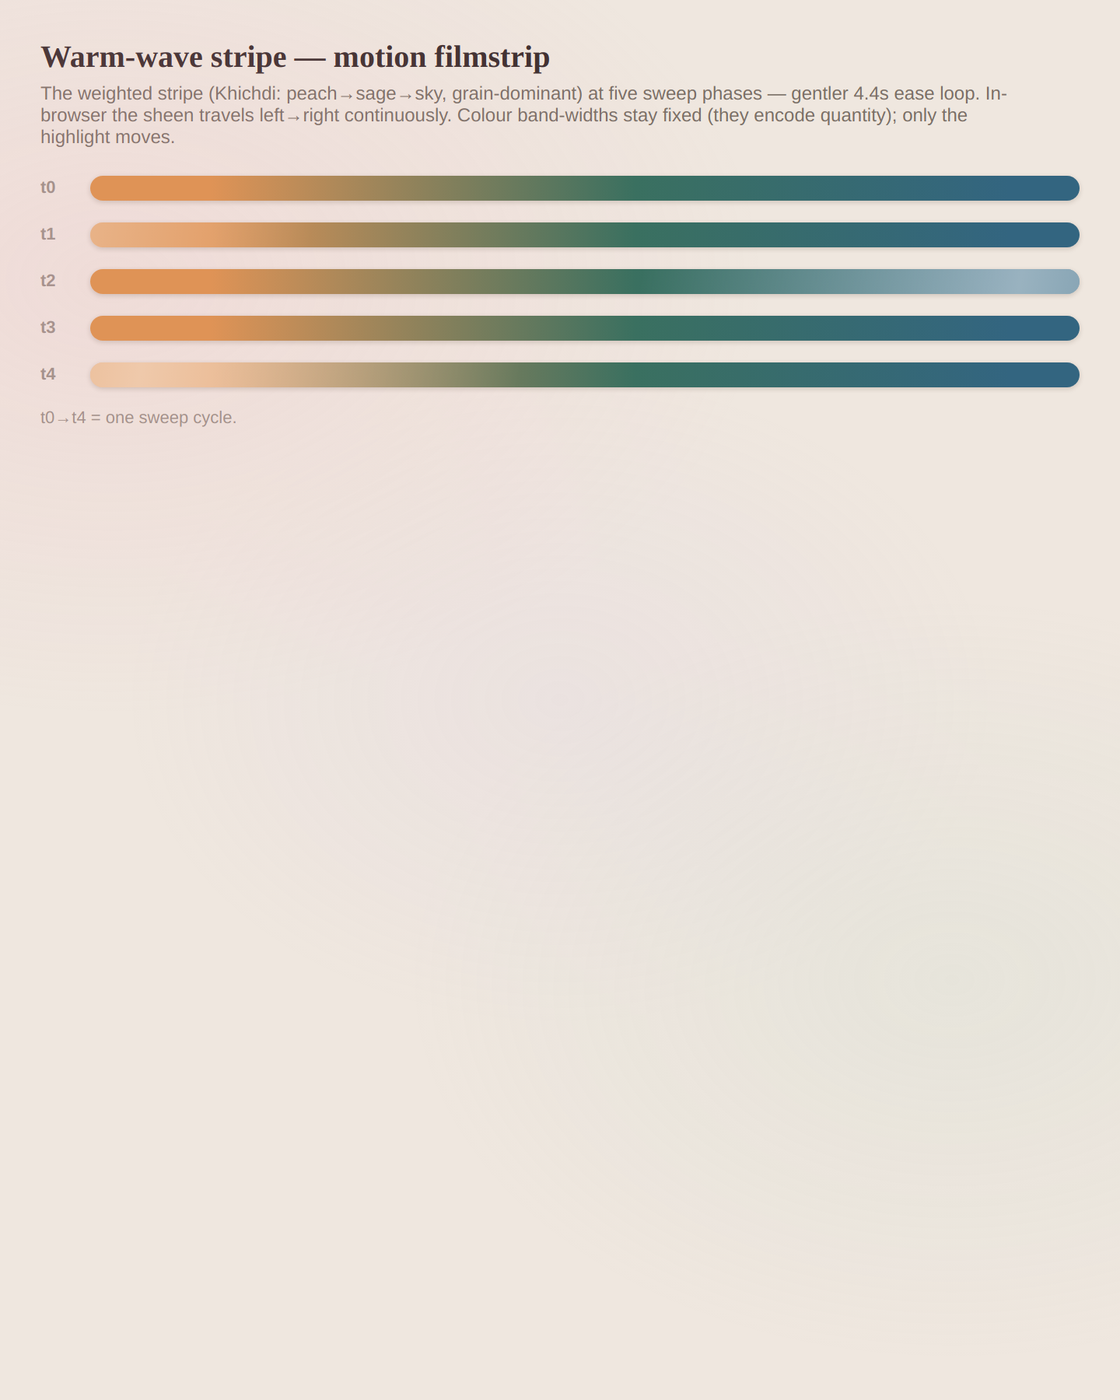
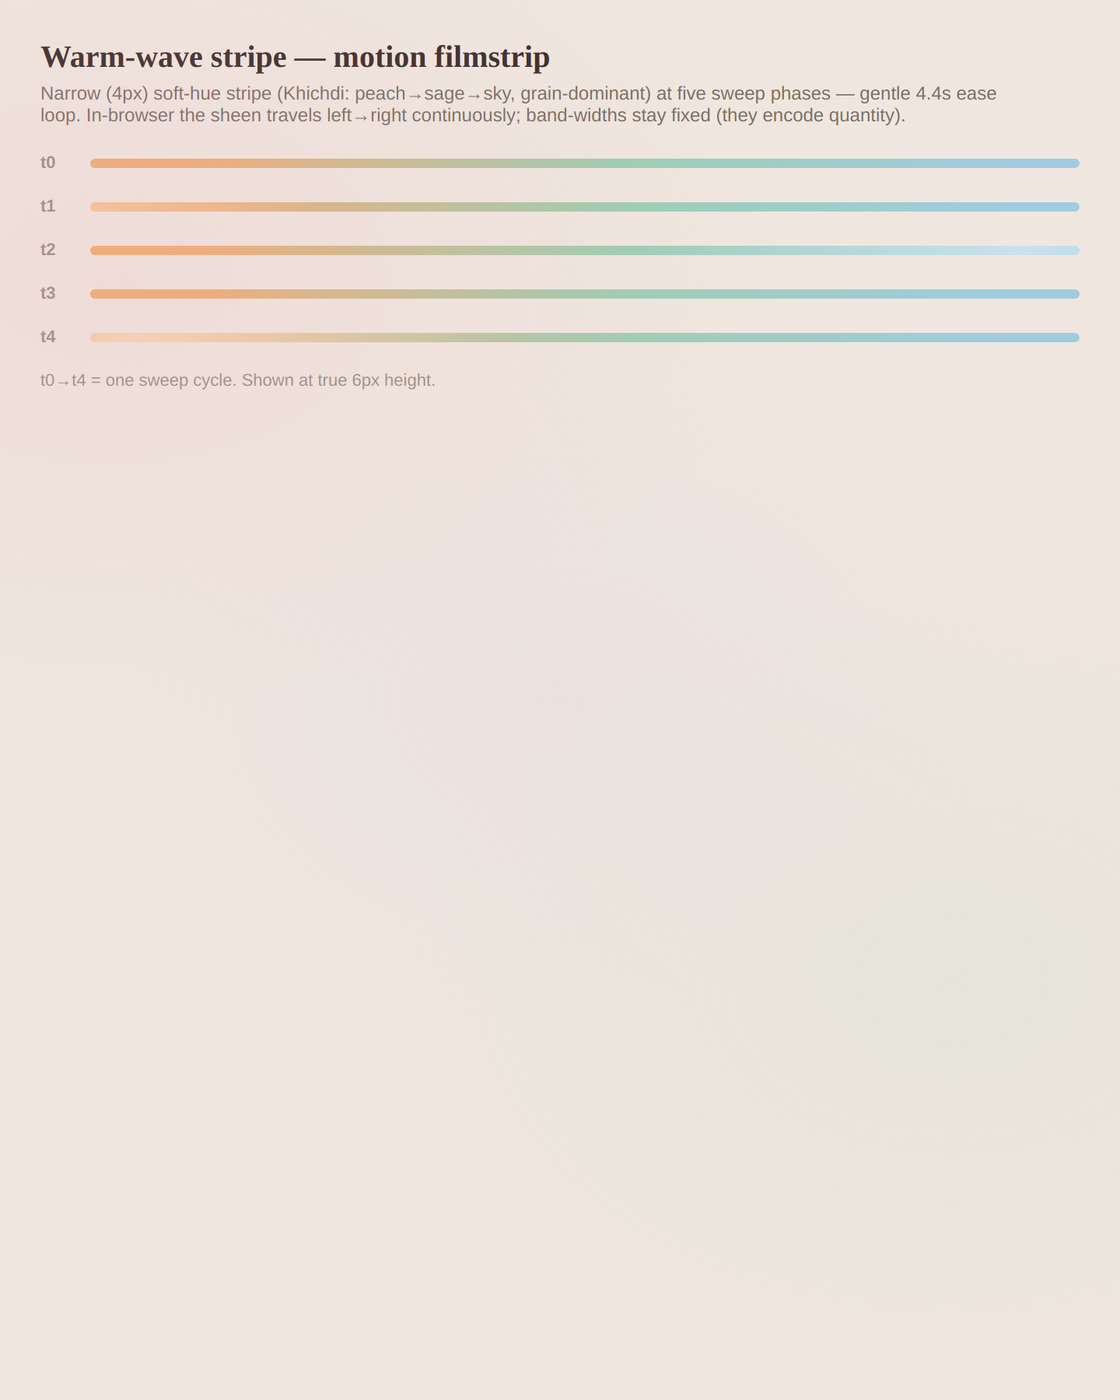
design: S9 hero — domain-tint pills + narrow soft stripe
Architect notes:
- Food pills now carry a faded DOMAIN TINT (theme-aware --*-light bg + soft
  domain-colour border) instead of sitting on naked white/dark — back on the
  'every element uses a domain colour' principle. Trace items (ghee/milk)
  tint via a mapped domain.
- Stripe narrowed 9px -> 4px (slim ribbon, no drop shadow).
- Stripe hues de-neoned: soft mid-tones (#9fcdb5 etc.) between the invisible
  pale --* and the harsh --tc-*. Sheen alpha eased down to match.
Docs-only.

Changed region(s): [[0.0312, 0.0622, 0.9688, 0.3111]]

diff --git a/docs/design/recipes-tab/09-hero-motion.html b/docs/design/recipes-tab/09-hero-motion.html
@@ -20,12 +20,12 @@
 
   .gh{position:relative;overflow:hidden;border-radius:var(--r-2xl);padding:var(--sp-24) var(--sp-24) 22px;box-shadow:0 8px 32px var(--shadow);margin-bottom:6px;background:var(--fl);}
   [data-theme="dark"] .gh{background:var(--fd);}
-  /* weighted stripe (ribbon w/ soft drop) + warm-wave sheen */
-  .gh::before{content:'';position:absolute;top:0;left:0;right:0;height:9px;z-index:2;background:var(--stripe);box-shadow:0 1px 3px rgba(60,40,20,.18);}
-  .gh::after{content:'';position:absolute;top:0;left:0;right:0;height:9px;z-index:3;pointer-events:none;
-    background:linear-gradient(100deg,transparent 0 38%,rgba(255,255,255,.5) 50%,transparent 62% 100%);
+  /* weighted stripe — narrow, soft hues + warm-wave sheen */
+  .gh::before{content:'';position:absolute;top:0;left:0;right:0;height:4px;z-index:2;background:var(--stripe);}
+  .gh::after{content:'';position:absolute;top:0;left:0;right:0;height:4px;z-index:3;pointer-events:none;
+    background:linear-gradient(100deg,transparent 0 38%,rgba(255,255,255,.42) 50%,transparent 62% 100%);
     background-size:320% 100%;animation:ghsweep 4.4s ease-in-out infinite;}
-  [data-theme="dark"] .gh::after{background:linear-gradient(100deg,transparent 0 38%,rgba(255,255,255,.26) 50%,transparent 62% 100%);background-size:320% 100%;}
+  [data-theme="dark"] .gh::after{background:linear-gradient(100deg,transparent 0 38%,rgba(255,255,255,.22) 50%,transparent 62% 100%);background-size:320% 100%;}
   @keyframes ghsweep{0%{background-position:135% 0;}100%{background-position:-75% 0;}}
 
   /* watermark — organic arc, dominant icon anchors the corner (bleeds slightly); non-overlapping */
@@ -44,7 +44,7 @@
   .gh-title{position:relative;z-index:1;font-family:'Fraunces',serif;font-weight:700;font-size:33px;line-height:1.05;letter-spacing:-0.01em;color:var(--text);margin-bottom:var(--sp-8);max-width:80%;}
   .gh-why{position:relative;z-index:1;font-size:var(--fs-sm);color:var(--mid);line-height:1.45;margin-bottom:var(--sp-12);max-width:78%;}
   .gh-ings{position:relative;z-index:1;display:flex;flex-wrap:wrap;gap:var(--sp-6);margin-bottom:var(--sp-16);max-width:82%;}
-  .gh-chip{display:inline-flex;align-items:center;gap:var(--sp-4);background:var(--card-bg);border:1px solid var(--card-border);border-radius:var(--r-full);padding:var(--sp-4) var(--sp-10);font-size:var(--fs-xs);font-weight:600;color:var(--text);}
+  .gh-chip{display:inline-flex;align-items:center;gap:var(--sp-4);border:1px solid transparent;border-radius:var(--r-full);padding:var(--sp-4) var(--sp-10);font-size:var(--fs-xs);font-weight:700;color:var(--text);}
   .gh-chip .zi{width:15px;height:15px;flex:0 0 auto;}
   .gh-foot{position:relative;z-index:1;display:flex;align-items:center;gap:var(--sp-14);}
   .gh-meta{display:flex;align-items:center;gap:var(--sp-6);font-size:var(--fs-xs);color:var(--mid);}
@@ -120,35 +120,35 @@
   <p class="r-mode light">Light</p>
   <div class="r-phone">
     <h2 class="r-h">Recipes</h2>
-    <article class="gh" style="--stripe:linear-gradient(90deg, #df9356 0%, #df9356 12.2%, var(--tc-sage) 55.1%, var(--tc-sky) 92.9%, var(--tc-sky) 100%);--fl:linear-gradient(135deg, var(--peach-light) 0%, var(--peach-light) 12.2%, var(--sage-light) 55.1%, var(--sky-light) 92.9%, var(--sky-light) 100%);--fd:linear-gradient(135deg, rgba(138,101,32,0.18) 0%, rgba(138,101,32,0.18) 12.2%, rgba(58,112,96,0.17) 55.1%, rgba(58,112,144,0.18) 92.9%, rgba(58,112,144,0.18) 100%)">
+    <article class="gh" style="--stripe:linear-gradient(90deg, #ecae7e 0%, #ecae7e 12.2%, #9fcdb5 55.1%, #a0cce0 92.9%, #a0cce0 100%);--fl:linear-gradient(135deg, var(--peach-light) 0%, var(--peach-light) 12.2%, var(--sage-light) 55.1%, var(--sky-light) 92.9%, var(--sky-light) 100%);--fd:linear-gradient(135deg, rgba(138,101,32,0.18) 0%, rgba(138,101,32,0.18) 12.2%, rgba(58,112,96,0.17) 55.1%, rgba(58,112,144,0.18) 92.9%, rgba(58,112,144,0.18) 100%)">
     <div class="gh-wm"><span class="wi s1"><svg class="zi" style="color:#d8c79f"><use href="#zif-rice"/></svg></span><span class="wi s2"><svg class="zi" style="color:#e8843a"><use href="#zif-carrot"/></svg></span><span class="wi s3"><svg class="zi" style="color:#cdbf93"><use href="#zif-paneer"/></svg></span></div>
     <div class="gh-top"><span class="gh-eyebrow"><svg class="zi"><use href="#zi-sparkle"/></svg>Recipe of the day</span>
       <span class="gh-badge">Lunch</span></div>
     <h3 class="gh-title">Veg & Paneer Khichdi</h3>
     <p class="gh-why">Rice-led one-pot — soft grain base, a little carrot for colour and beta-carotene, paneer for protein.</p>
-    <div class="gh-ings"><span class="gh-chip"><svg class="zi" style="color:#d8c79f"><use href="#zif-rice"/></svg>Rice</span><span class="gh-chip"><svg class="zi" style="color:#e8843a"><use href="#zif-carrot"/></svg>Carrot</span><span class="gh-chip"><svg class="zi" style="color:#cdbf93"><use href="#zif-paneer"/></svg>Paneer</span><span class="gh-chip"><svg class="zi" style="color:#e8b94f"><use href="#zif-ghee"/></svg>Ghee</span></div>
+    <div class="gh-ings"><span class="gh-chip" style="background:var(--sage-light);border-color:color-mix(in srgb, #9fcdb5 55%, transparent)"><svg class="zi" style="color:#d8c79f"><use href="#zif-rice"/></svg>Rice</span><span class="gh-chip" style="background:var(--peach-light);border-color:color-mix(in srgb, #ecae7e 55%, transparent)"><svg class="zi" style="color:#e8843a"><use href="#zif-carrot"/></svg>Carrot</span><span class="gh-chip" style="background:var(--sky-light);border-color:color-mix(in srgb, #a0cce0 55%, transparent)"><svg class="zi" style="color:#cdbf93"><use href="#zif-paneer"/></svg>Paneer</span><span class="gh-chip" style="background:var(--amber-light);border-color:color-mix(in srgb, #e6c078 55%, transparent)"><svg class="zi" style="color:#e8b94f"><use href="#zif-ghee"/></svg>Ghee</span></div>
     <div class="gh-foot"><span class="gh-meta"><svg class="zi"><use href="#zi-clock"/></svg><b>25 min</b></span>
       <span class="gh-meta"><svg class="zi"><use href="#zi-baby"/></svg><b>7m+</b></span></div>
   </article>
   <p class="fp">fingerprint · weighted veg 24% · grain 61% · dairy 14%</p>
-<article class="gh" style="--stripe:linear-gradient(90deg, var(--tc-rose) 0%, var(--tc-rose) 44.6%, var(--tc-lav) 94.6%, var(--tc-lav) 100%);--fl:linear-gradient(135deg, var(--rose-light) 0%, var(--rose-light) 44.6%, var(--lav-light) 94.6%, var(--lav-light) 100%);--fd:linear-gradient(135deg, rgba(158,62,82,0.20) 0%, rgba(158,62,82,0.20) 44.6%, rgba(110,94,154,0.18) 94.6%, rgba(110,94,154,0.18) 100%)">
+<article class="gh" style="--stripe:linear-gradient(90deg, #e59cb0 0%, #e59cb0 44.6%, #c4b4e6 94.6%, #c4b4e6 100%);--fl:linear-gradient(135deg, var(--rose-light) 0%, var(--rose-light) 44.6%, var(--lav-light) 94.6%, var(--lav-light) 100%);--fd:linear-gradient(135deg, rgba(158,62,82,0.20) 0%, rgba(158,62,82,0.20) 44.6%, rgba(110,94,154,0.18) 94.6%, rgba(110,94,154,0.18) 100%)">
     <div class="gh-wm"><span class="wi s1"><svg class="zi" style="color:#e9c44a"><use href="#zif-banana"/></svg></span><span class="wi s2"><svg class="zi" style="color:#b9824e"><use href="#zif-almond"/></svg></span></div>
     <div class="gh-top"><span class="gh-eyebrow"><svg class="zi"><use href="#zi-sparkle"/></svg>Recipe of the day</span>
       <span class="gh-badge">Breakfast</span></div>
     <h3 class="gh-title">Almond Banana Mash</h3>
     <p class="gh-why">Banana-forward mash, a spoon of almond powder folded in for healthy fats and a nutty note.</p>
-    <div class="gh-ings"><span class="gh-chip"><svg class="zi" style="color:#e9c44a"><use href="#zif-banana"/></svg>Banana</span><span class="gh-chip"><svg class="zi" style="color:#b9824e"><use href="#zif-almond"/></svg>Almond powder</span></div>
+    <div class="gh-ings"><span class="gh-chip" style="background:var(--rose-light);border-color:color-mix(in srgb, #e59cb0 55%, transparent)"><svg class="zi" style="color:#e9c44a"><use href="#zif-banana"/></svg>Banana</span><span class="gh-chip" style="background:var(--lav-light);border-color:color-mix(in srgb, #c4b4e6 55%, transparent)"><svg class="zi" style="color:#b9824e"><use href="#zif-almond"/></svg>Almond powder</span></div>
     <div class="gh-foot"><span class="gh-meta"><svg class="zi"><use href="#zi-clock"/></svg><b>5 min</b></span>
       <span class="gh-meta"><svg class="zi"><use href="#zi-baby"/></svg><b>6m+</b></span></div>
   </article>
   <p class="fp">fingerprint · weighted fruit 89% · nuts 11%</p>
-<article class="gh" style="--stripe:linear-gradient(90deg, var(--tc-rose) 0%, var(--tc-rose) 31.3%, var(--tc-sage) 81.3%, var(--tc-sage) 100%);--fl:linear-gradient(135deg, var(--rose-light) 0%, var(--rose-light) 31.3%, var(--sage-light) 81.3%, var(--sage-light) 100%);--fd:linear-gradient(135deg, rgba(158,62,82,0.20) 0%, rgba(158,62,82,0.20) 31.3%, rgba(58,112,96,0.17) 81.3%, rgba(58,112,96,0.17) 100%)">
+<article class="gh" style="--stripe:linear-gradient(90deg, #e59cb0 0%, #e59cb0 31.3%, #9fcdb5 81.3%, #9fcdb5 100%);--fl:linear-gradient(135deg, var(--rose-light) 0%, var(--rose-light) 31.3%, var(--sage-light) 81.3%, var(--sage-light) 100%);--fd:linear-gradient(135deg, rgba(158,62,82,0.20) 0%, rgba(158,62,82,0.20) 31.3%, rgba(58,112,96,0.17) 81.3%, rgba(58,112,96,0.17) 100%)">
     <div class="gh-wm"><span class="wi s1"><svg class="zi" style="color:#e9c44a"><use href="#zif-banana"/></svg></span><span class="wi s2"><svg class="zi" style="color:#b06a44"><use href="#zif-millet"/></svg></span></div>
     <div class="gh-top"><span class="gh-eyebrow"><svg class="zi"><use href="#zi-sparkle"/></svg>Recipe of the day</span>
       <span class="gh-badge">Breakfast</span></div>
     <h3 class="gh-title">Ragi Banana Porridge</h3>
     <p class="gh-why">Banana sweetens a ragi porridge — fruit leads, millet gives iron and body.</p>
-    <div class="gh-ings"><span class="gh-chip"><svg class="zi" style="color:#e9c44a"><use href="#zif-banana"/></svg>Banana</span><span class="gh-chip"><svg class="zi" style="color:#b06a44"><use href="#zif-millet"/></svg>Ragi</span><span class="gh-chip"><svg class="zi" style="color:#f1eee4"><use href="#zif-milk"/></svg>Milk</span></div>
+    <div class="gh-ings"><span class="gh-chip" style="background:var(--rose-light);border-color:color-mix(in srgb, #e59cb0 55%, transparent)"><svg class="zi" style="color:#e9c44a"><use href="#zif-banana"/></svg>Banana</span><span class="gh-chip" style="background:var(--sage-light);border-color:color-mix(in srgb, #9fcdb5 55%, transparent)"><svg class="zi" style="color:#b06a44"><use href="#zif-millet"/></svg>Ragi</span><span class="gh-chip" style="background:var(--sky-light);border-color:color-mix(in srgb, #a0cce0 55%, transparent)"><svg class="zi" style="color:#cdbf93"><use href="#zif-milk"/></svg>Milk</span></div>
     <div class="gh-foot"><span class="gh-meta"><svg class="zi"><use href="#zi-clock"/></svg><b>12 min</b></span>
       <span class="gh-meta"><svg class="zi"><use href="#zi-baby"/></svg><b>7m+</b></span></div>
   </article>
@@ -157,35 +157,35 @@
   <p class="r-mode dark">Dark</p>
   <div class="r-phone" data-theme="dark">
     <h2 class="r-h">Recipes</h2>
-    <article class="gh" style="--stripe:linear-gradient(90deg, #df9356 0%, #df9356 12.2%, var(--tc-sage) 55.1%, var(--tc-sky) 92.9%, var(--tc-sky) 100%);--fl:linear-gradient(135deg, var(--peach-light) 0%, var(--peach-light) 12.2%, var(--sage-light) 55.1%, var(--sky-light) 92.9%, var(--sky-light) 100%);--fd:linear-gradient(135deg, rgba(138,101,32,0.18) 0%, rgba(138,101,32,0.18) 12.2%, rgba(58,112,96,0.17) 55.1%, rgba(58,112,144,0.18) 92.9%, rgba(58,112,144,0.18) 100%)">
+    <article class="gh" style="--stripe:linear-gradient(90deg, #ecae7e 0%, #ecae7e 12.2%, #9fcdb5 55.1%, #a0cce0 92.9%, #a0cce0 100%);--fl:linear-gradient(135deg, var(--peach-light) 0%, var(--peach-light) 12.2%, var(--sage-light) 55.1%, var(--sky-light) 92.9%, var(--sky-light) 100%);--fd:linear-gradient(135deg, rgba(138,101,32,0.18) 0%, rgba(138,101,32,0.18) 12.2%, rgba(58,112,96,0.17) 55.1%, rgba(58,112,144,0.18) 92.9%, rgba(58,112,144,0.18) 100%)">
     <div class="gh-wm"><span class="wi s1"><svg class="zi" style="color:#d8c79f"><use href="#zif-rice"/></svg></span><span class="wi s2"><svg class="zi" style="color:#e8843a"><use href="#zif-carrot"/></svg></span><span class="wi s3"><svg class="zi" style="color:#cdbf93"><use href="#zif-paneer"/></svg></span></div>
     <div class="gh-top"><span class="gh-eyebrow"><svg class="zi"><use href="#zi-sparkle"/></svg>Recipe of the day</span>
       <span class="gh-badge">Lunch</span></div>
     <h3 class="gh-title">Veg & Paneer Khichdi</h3>
     <p class="gh-why">Rice-led one-pot — soft grain base, a little carrot for colour and beta-carotene, paneer for protein.</p>
-    <div class="gh-ings"><span class="gh-chip"><svg class="zi" style="color:#d8c79f"><use href="#zif-rice"/></svg>Rice</span><span class="gh-chip"><svg class="zi" style="color:#e8843a"><use href="#zif-carrot"/></svg>Carrot</span><span class="gh-chip"><svg class="zi" style="color:#cdbf93"><use href="#zif-paneer"/></svg>Paneer</span><span class="gh-chip"><svg class="zi" style="color:#e8b94f"><use href="#zif-ghee"/></svg>Ghee</span></div>
+    <div class="gh-ings"><span class="gh-chip" style="background:var(--sage-light);border-color:color-mix(in srgb, #9fcdb5 55%, transparent)"><svg class="zi" style="color:#d8c79f"><use href="#zif-rice"/></svg>Rice</span><span class="gh-chip" style="background:var(--peach-light);border-color:color-mix(in srgb, #ecae7e 55%, transparent)"><svg class="zi" style="color:#e8843a"><use href="#zif-carrot"/></svg>Carrot</span><span class="gh-chip" style="background:var(--sky-light);border-color:color-mix(in srgb, #a0cce0 55%, transparent)"><svg class="zi" style="color:#cdbf93"><use href="#zif-paneer"/></svg>Paneer</span><span class="gh-chip" style="background:var(--amber-light);border-color:color-mix(in srgb, #e6c078 55%, transparent)"><svg class="zi" style="color:#e8b94f"><use href="#zif-ghee"/></svg>Ghee</span></div>
     <div class="gh-foot"><span class="gh-meta"><svg class="zi"><use href="#zi-clock"/></svg><b>25 min</b></span>
       <span class="gh-meta"><svg class="zi"><use href="#zi-baby"/></svg><b>7m+</b></span></div>
   </article>
   <p class="fp">fingerprint · weighted veg 24% · grain 61% · dairy 14%</p>
-<article class="gh" style="--stripe:linear-gradient(90deg, var(--tc-rose) 0%, var(--tc-rose) 44.6%, var(--tc-lav) 94.6%, var(--tc-lav) 100%);--fl:linear-gradient(135deg, var(--rose-light) 0%, var(--rose-light) 44.6%, var(--lav-light) 94.6%, var(--lav-light) 100%);--fd:linear-gradient(135deg, rgba(158,62,82,0.20) 0%, rgba(158,62,82,0.20) 44.6%, rgba(110,94,154,0.18) 94.6%, rgba(110,94,154,0.18) 100%)">
+<article class="gh" style="--stripe:linear-gradient(90deg, #e59cb0 0%, #e59cb0 44.6%, #c4b4e6 94.6%, #c4b4e6 100%);--fl:linear-gradient(135deg, var(--rose-light) 0%, var(--rose-light) 44.6%, var(--lav-light) 94.6%, var(--lav-light) 100%);--fd:linear-gradient(135deg, rgba(158,62,82,0.20) 0%, rgba(158,62,82,0.20) 44.6%, rgba(110,94,154,0.18) 94.6%, rgba(110,94,154,0.18) 100%)">
     <div class="gh-wm"><span class="wi s1"><svg class="zi" style="color:#e9c44a"><use href="#zif-banana"/></svg></span><span class="wi s2"><svg class="zi" style="color:#b9824e"><use href="#zif-almond"/></svg></span></div>
     <div class="gh-top"><span class="gh-eyebrow"><svg class="zi"><use href="#zi-sparkle"/></svg>Recipe of the day</span>
       <span class="gh-badge">Breakfast</span></div>
     <h3 class="gh-title">Almond Banana Mash</h3>
     <p class="gh-why">Banana-forward mash, a spoon of almond powder folded in for healthy fats and a nutty note.</p>
-    <div class="gh-ings"><span class="gh-chip"><svg class="zi" style="color:#e9c44a"><use href="#zif-banana"/></svg>Banana</span><span class="gh-chip"><svg class="zi" style="color:#b9824e"><use href="#zif-almond"/></svg>Almond powder</span></div>
+    <div class="gh-ings"><span class="gh-chip" style="background:var(--rose-light);border-color:color-mix(in srgb, #e59cb0 55%, transparent)"><svg class="zi" style="color:#e9c44a"><use href="#zif-banana"/></svg>Banana</span><span class="gh-chip" style="background:var(--lav-light);border-color:color-mix(in srgb, #c4b4e6 55%, transparent)"><svg class="zi" style="color:#b9824e"><use href="#zif-almond"/></svg>Almond powder</span></div>
     <div class="gh-foot"><span class="gh-meta"><svg class="zi"><use href="#zi-clock"/></svg><b>5 min</b></span>
       <span class="gh-meta"><svg class="zi"><use href="#zi-baby"/></svg><b>6m+</b></span></div>
   </article>
   <p class="fp">fingerprint · weighted fruit 89% · nuts 11%</p>
-<article class="gh" style="--stripe:linear-gradient(90deg, var(--tc-rose) 0%, var(--tc-rose) 31.3%, var(--tc-sage) 81.3%, var(--tc-sage) 100%);--fl:linear-gradient(135deg, var(--rose-light) 0%, var(--rose-light) 31.3%, var(--sage-light) 81.3%, var(--sage-light) 100%);--fd:linear-gradient(135deg, rgba(158,62,82,0.20) 0%, rgba(158,62,82,0.20) 31.3%, rgba(58,112,96,0.17) 81.3%, rgba(58,112,96,0.17) 100%)">
+<article class="gh" style="--stripe:linear-gradient(90deg, #e59cb0 0%, #e59cb0 31.3%, #9fcdb5 81.3%, #9fcdb5 100%);--fl:linear-gradient(135deg, var(--rose-light) 0%, var(--rose-light) 31.3%, var(--sage-light) 81.3%, var(--sage-light) 100%);--fd:linear-gradient(135deg, rgba(158,62,82,0.20) 0%, rgba(158,62,82,0.20) 31.3%, rgba(58,112,96,0.17) 81.3%, rgba(58,112,96,0.17) 100%)">
     <div class="gh-wm"><span class="wi s1"><svg class="zi" style="color:#e9c44a"><use href="#zif-banana"/></svg></span><span class="wi s2"><svg class="zi" style="color:#b06a44"><use href="#zif-millet"/></svg></span></div>
     <div class="gh-top"><span class="gh-eyebrow"><svg class="zi"><use href="#zi-sparkle"/></svg>Recipe of the day</span>
       <span class="gh-badge">Breakfast</span></div>
     <h3 class="gh-title">Ragi Banana Porridge</h3>
     <p class="gh-why">Banana sweetens a ragi porridge — fruit leads, millet gives iron and body.</p>
-    <div class="gh-ings"><span class="gh-chip"><svg class="zi" style="color:#e9c44a"><use href="#zif-banana"/></svg>Banana</span><span class="gh-chip"><svg class="zi" style="color:#b06a44"><use href="#zif-millet"/></svg>Ragi</span><span class="gh-chip"><svg class="zi" style="color:#f1eee4"><use href="#zif-milk"/></svg>Milk</span></div>
+    <div class="gh-ings"><span class="gh-chip" style="background:var(--rose-light);border-color:color-mix(in srgb, #e59cb0 55%, transparent)"><svg class="zi" style="color:#e9c44a"><use href="#zif-banana"/></svg>Banana</span><span class="gh-chip" style="background:var(--sage-light);border-color:color-mix(in srgb, #9fcdb5 55%, transparent)"><svg class="zi" style="color:#b06a44"><use href="#zif-millet"/></svg>Ragi</span><span class="gh-chip" style="background:var(--sky-light);border-color:color-mix(in srgb, #a0cce0 55%, transparent)"><svg class="zi" style="color:#cdbf93"><use href="#zif-milk"/></svg>Milk</span></div>
     <div class="gh-foot"><span class="gh-meta"><svg class="zi"><use href="#zi-clock"/></svg><b>12 min</b></span>
       <span class="gh-meta"><svg class="zi"><use href="#zi-baby"/></svg><b>7m+</b></span></div>
   </article>

diff --git a/docs/design/recipes-tab/09-stripe-filmstrip.html b/docs/design/recipes-tab/09-stripe-filmstrip.html
@@ -1,10 +1,10 @@
 <!DOCTYPE html><html data-zoom="default"><head><meta charset="utf-8"><link rel="stylesheet" href="../../../split/styles.css">
 <style>html,body{background:#efe7df;margin:0}body{font-family:Nunito,sans-serif;padding:26px}
 h1{font-family:Fraunces,serif;font-size:20px;margin:0 0 4px}.sub{font-size:12px;color:#7a6f66;margin:0 0 18px;max-width:640px}
-.row{display:flex;align-items:center;gap:12px;margin:0 0 14px}.lbl{font-size:11px;font-weight:800;color:#9a8f86;width:20px}
-.bar{position:relative;flex:1;height:16px;border-radius:8px;overflow:hidden;box-shadow:0 1px 3px rgba(60,40,20,.18)}
-.grad{position:absolute;inset:0;background:linear-gradient(90deg, #df9356 0%, #df9356 12.2%, var(--tc-sage) 55.1%, var(--tc-sky) 92.9%, var(--tc-sky) 100%)}
-.sheen{position:absolute;inset:0;background-image:linear-gradient(100deg,transparent 0 38%,rgba(255,255,255,.5) 50%,transparent 62% 100%);background-size:320% 100%}
+.row{display:flex;align-items:center;gap:12px;margin:0 0 16px}.lbl{font-size:11px;font-weight:800;color:#9a8f86;width:20px}
+.bar{position:relative;flex:1;height:6px;border-radius:3px;overflow:hidden}
+.grad{position:absolute;inset:0;background:linear-gradient(90deg, #ecae7e 0%, #ecae7e 12.2%, #9fcdb5 55.1%, #a0cce0 92.9%, #a0cce0 100%)}
+.sheen{position:absolute;inset:0;background-image:linear-gradient(100deg,transparent 0 38%,rgba(255,255,255,.42) 50%,transparent 62% 100%);background-size:320% 100%}
 .cap{font-size:11px;color:#9a8f86;margin:14px 0 0}</style></head><body>
 <svg style="display:none"><symbol id="zif-rice" viewBox="0 0 24 24"><path d="M3.5 11.5h17c0 4.8-3.8 8.7-8.5 8.7S3.5 16.3 3.5 11.5z" fill="currentColor" stroke="rgba(74,48,22,.22)" stroke-width="1.1" stroke-linejoin="round"/><g fill="#fff" stroke="rgba(74,48,22,.18)" stroke-width=".8"><ellipse cx="9" cy="8.7" rx="1.1" ry="2.2" transform="rotate(-20 9 8.7)"/><ellipse cx="12" cy="7.9" rx="1.1" ry="2.2"/><ellipse cx="15" cy="8.7" rx="1.1" ry="2.2" transform="rotate(20 15 8.7)"/></g></symbol>
 <symbol id="zif-millet" viewBox="0 0 24 24"><path d="M12 21v-7" stroke="currentColor" stroke-width="1.8" stroke-linecap="round" fill="none"/><g fill="currentColor"><circle cx="12" cy="4.4" r="1.15"/><circle cx="10.1" cy="6" r="1.15"/><circle cx="13.9" cy="6" r="1.15"/><circle cx="9.5" cy="8" r="1.15"/><circle cx="12" cy="7.7" r="1.15"/><circle cx="14.5" cy="8" r="1.15"/><circle cx="10.4" cy="10" r="1.15"/><circle cx="13.6" cy="10" r="1.15"/><circle cx="12" cy="11.5" r="1.15"/></g></symbol>
@@ -68,6 +68,6 @@ h1{font-family:Fraunces,serif;font-size:20px;margin:0 0 4px}.sub{font-size:12px;
 <symbol id="zif-jaggery" viewBox="0 0 24 24"><path d="M4.6 14.2l1.3-4.4 4.2-2.1 4.7.3 3.4 2.9-.6 5-4.4 2.7-6 .2z" fill="currentColor" stroke="rgba(74,48,22,.22)" stroke-width="1" stroke-linejoin="round"/><path d="M5.9 9.8l4.4 1.9 4.5-1.6M10.3 11.7l-.5 7.2" stroke="rgba(74,48,22,.28)" stroke-width=".8" fill="none"/><path d="M17.4 17.2l2 .6-.5 1.9-1.9-.5z" fill="currentColor" stroke="rgba(74,48,22,.22)" stroke-width=".8" stroke-linejoin="round"/><g fill="rgba(74,48,22,.32)"><circle cx="8.4" cy="13.4" r=".4"/><circle cx="12" cy="14.2" r=".4"/><circle cx="13.8" cy="12.6" r=".4"/><circle cx="10.2" cy="15.4" r=".4"/></g></symbol>
 <symbol id="zif-honey" viewBox="0 0 24 24"><path d="M7 5h10v2l-1.5 1.5v3L17 14v4a2 2 0 01-2 2H9a2 2 0 01-2-2v-4l1.5-2.5v-3L7 7z" fill="currentColor" stroke="rgba(74,48,22,.22)" stroke-width="1" stroke-linejoin="round"/><path d="M9 15h6" stroke="rgba(74,48,22,.25)" stroke-width="1" fill="none"/></symbol></svg>
 <h1>Warm-wave stripe — motion filmstrip</h1>
-<p class="sub">The weighted stripe (Khichdi: peach→sage→sky, grain-dominant) at five sweep phases — gentler 4.4s ease loop. In-browser the sheen travels left→right continuously. Colour band-widths stay fixed (they encode quantity); only the highlight moves.</p>
+<p class="sub">Narrow (4px) soft-hue stripe (Khichdi: peach→sage→sky, grain-dominant) at five sweep phases — gentle 4.4s ease loop. In-browser the sheen travels left→right continuously; band-widths stay fixed (they encode quantity).</p>
 <div class="row"><span class="lbl">t0</span><div class="bar"><div class="grad"></div><div class="sheen" style="background-position:135% 0"></div></div></div><div class="row"><span class="lbl">t1</span><div class="bar"><div class="grad"></div><div class="sheen" style="background-position:80% 0"></div></div></div><div class="row"><span class="lbl">t2</span><div class="bar"><div class="grad"></div><div class="sheen" style="background-position:30% 0"></div></div></div><div class="row"><span class="lbl">t3</span><div class="bar"><div class="grad"></div><div class="sheen" style="background-position:-25% 0"></div></div></div><div class="row"><span class="lbl">t4</span><div class="bar"><div class="grad"></div><div class="sheen" style="background-position:-75% 0"></div></div></div>
-<p class="cap">t0→t4 = one sweep cycle.</p></body></html>
+<p class="cap">t0→t4 = one sweep cycle. Shown at true 6px height.</p></body></html>
